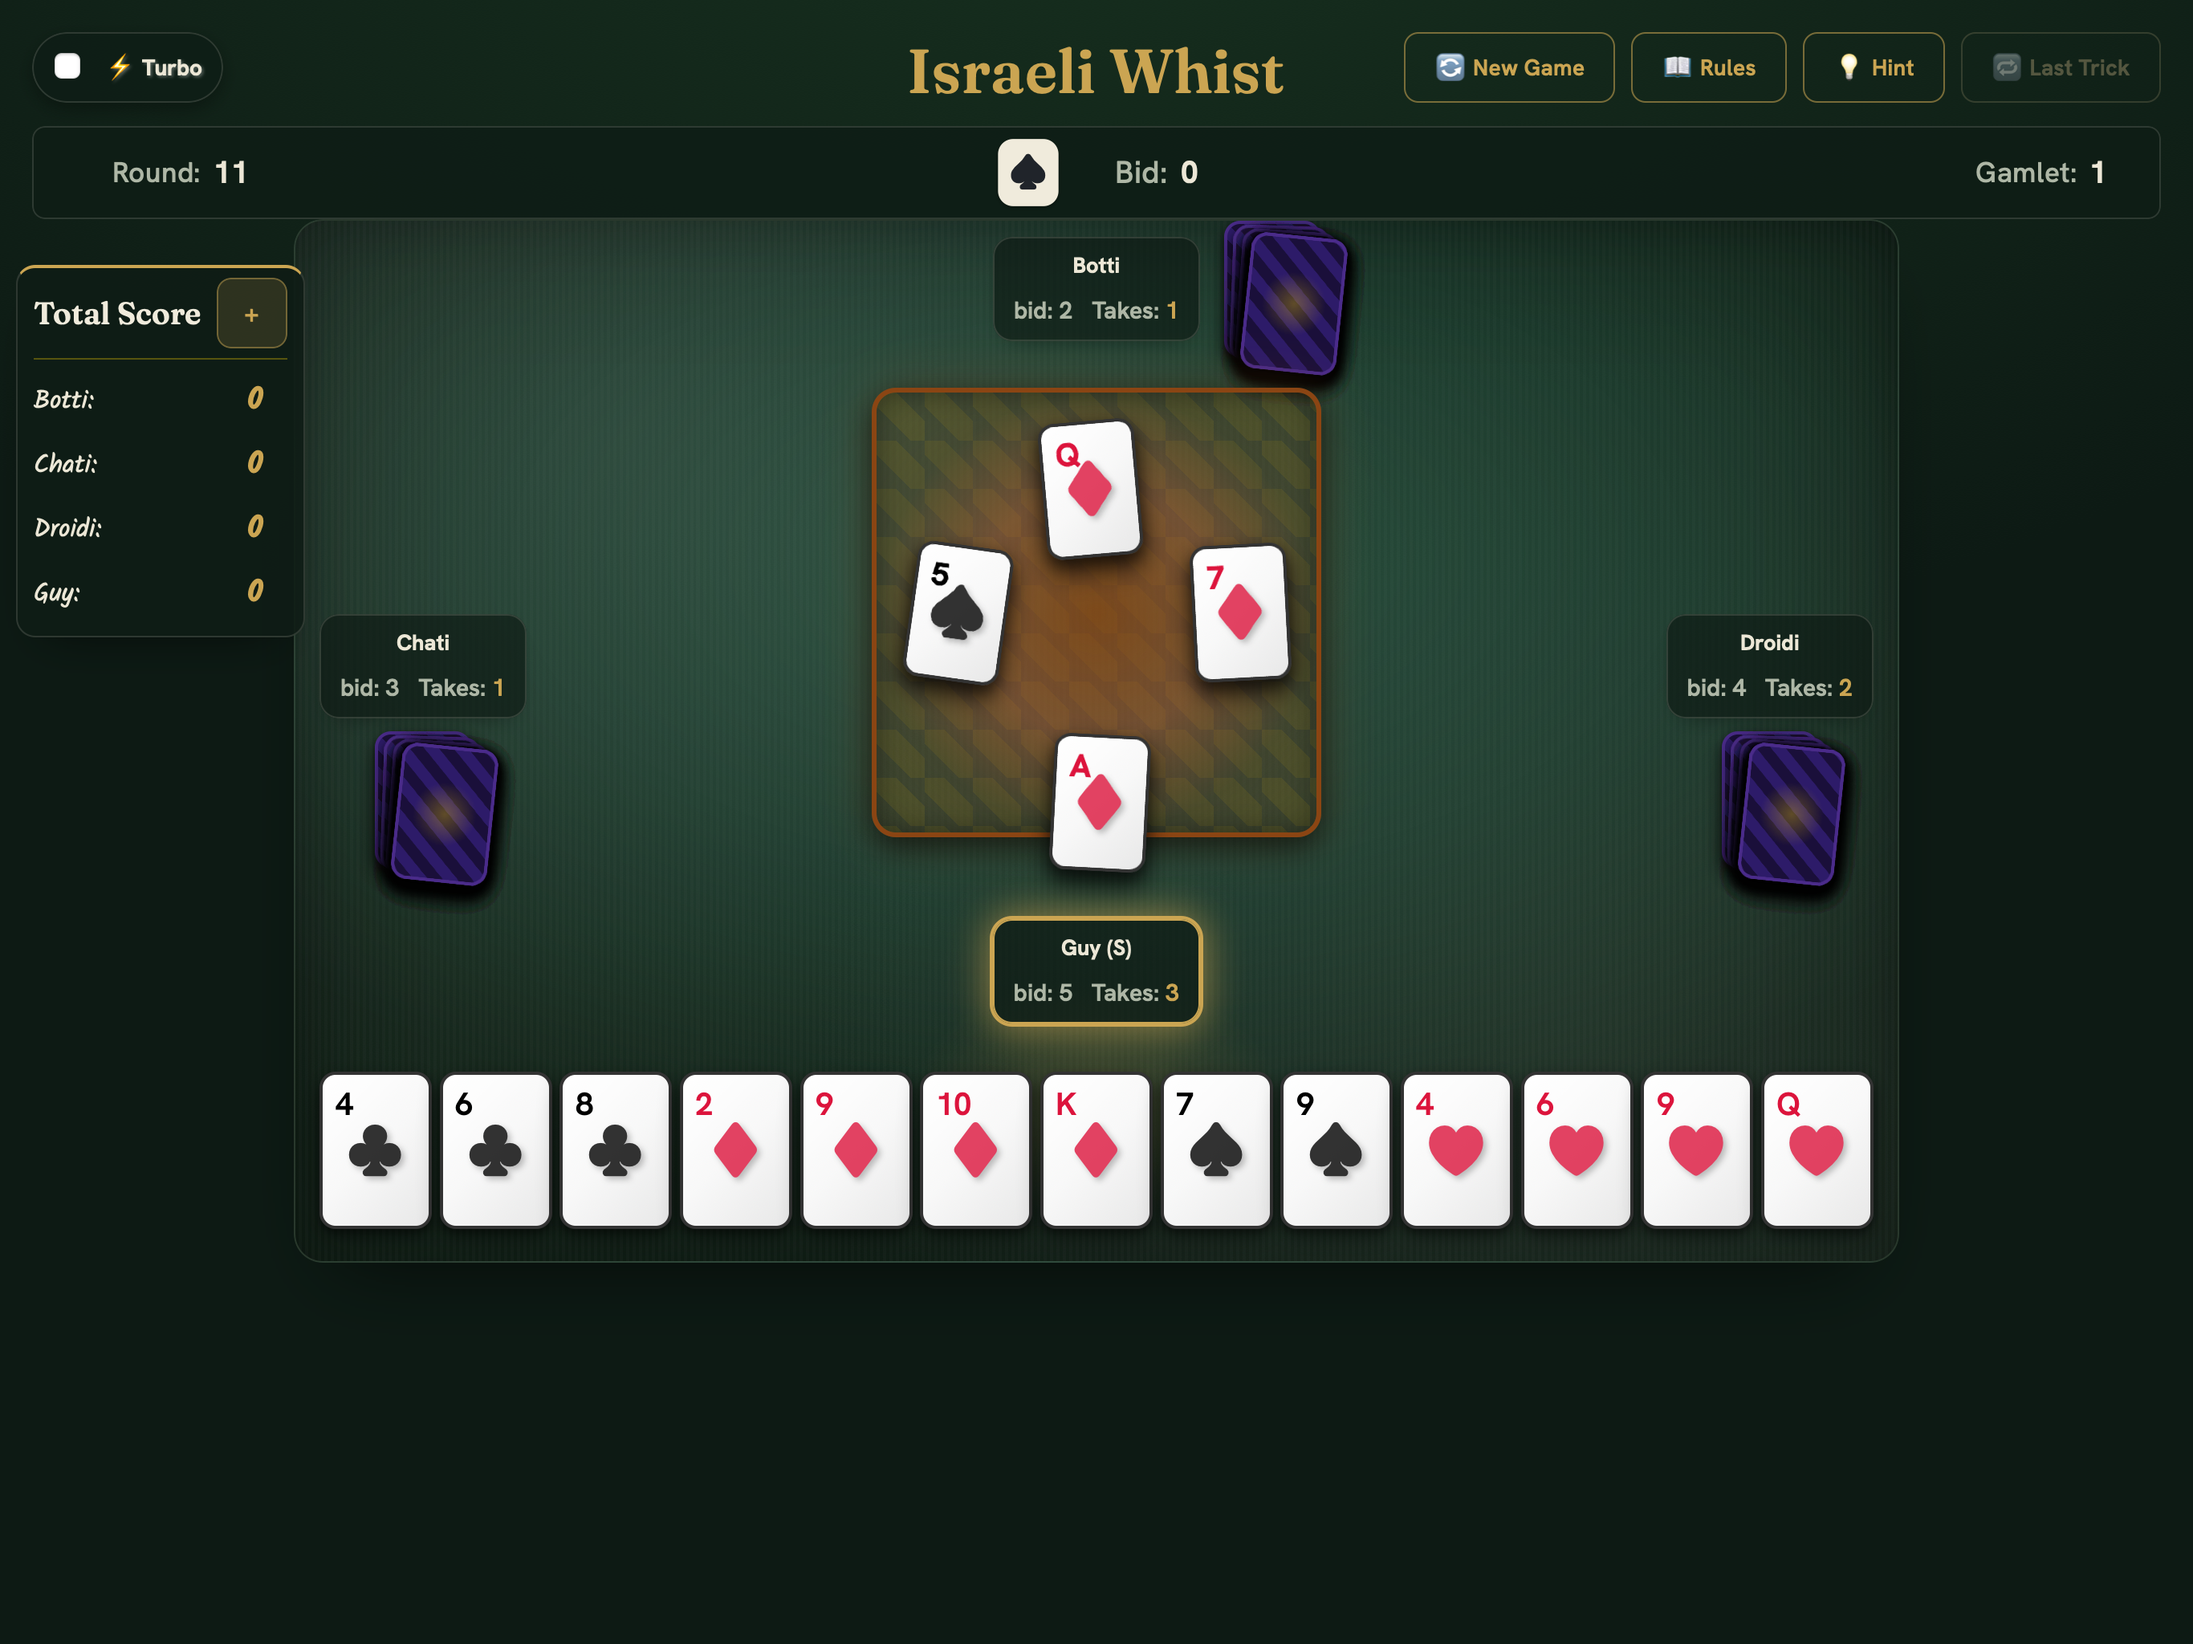
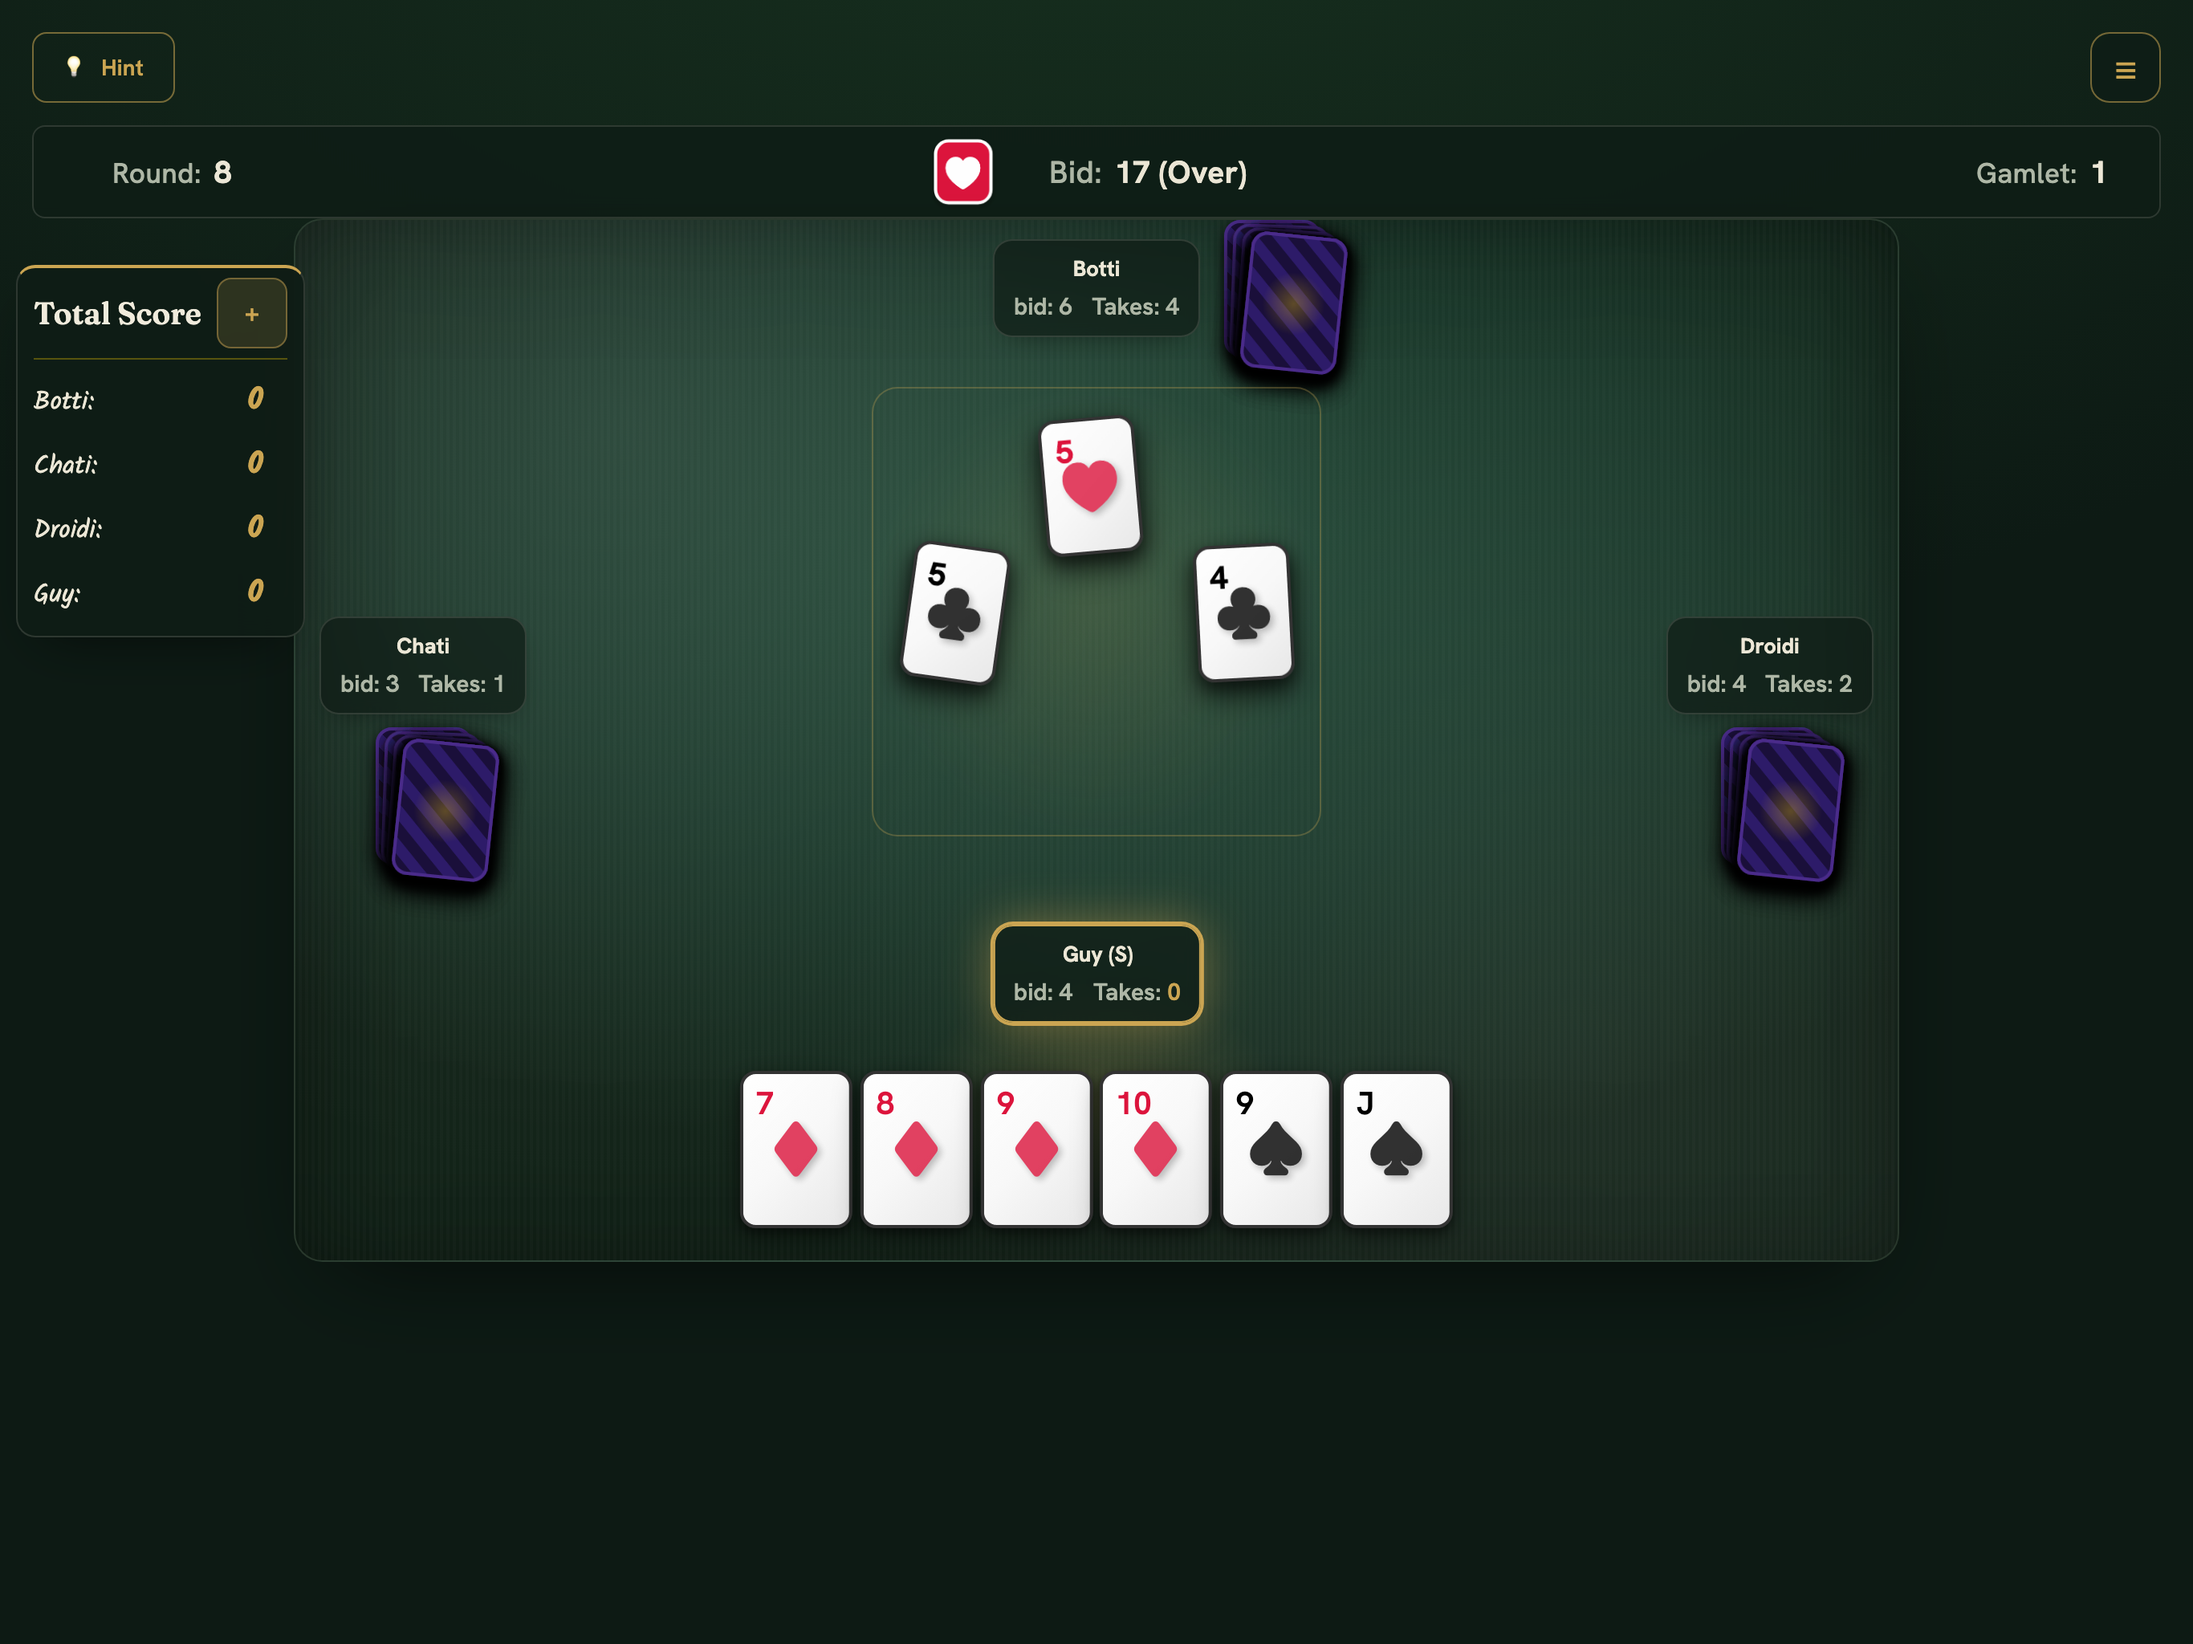
chore(app-store): regenerate screenshots; fix the felt bugs they exposed
The three sets showed the old two-row top chrome and the docked bid panel.
Regenerated all of them — and added scripts/make-store-screenshots.mjs so the
next round is one command instead of hand-driving a browser. It runs the real
game headless at each device's CSS size and pixel ratio (6.9" 430x932@3, 6.5"
428x926@3, iPad 1366x1024@2), one shot per phase: trump bidding, takes, play.
Nothing composited or annotated.

Capturing with isMobile/hasTouch — which a real device has, and the old
hand-driven captures evidently didn't — put the layout through the
`(hover: none)` branches for the first time, and two genuine bugs fell out:

- The trick square was still the pre-theme brown "wooden table" (saddle-brown
  radial, gold hatching, 3px #8B4513 border). The Card Room reskin only
  replaced it inside the portrait-phone block, so tablets and desktop had an
  orange slab sitting in the middle of the felt. Restyled once, globally.

- iPad capped .total-score-box at 200px to keep it clear of the west nameplate,
  which clipped the fourth seat's row off the bottom. 260px fits all four and
  still ends ~100px above the plate.

02 is now the takes round rather than a second play shot: south passes in
phase 1 so a bot wins the trump and bids takes first, which means the panel
shows real predictions instead of four dashes — and the forbidden
total-of-13 value greyed out, which is the rule worth showing.

Also strips the transient toasts and floating "Pass / 3 ♥" bid badges before
[…]

diff --git a/theme-cardroom.css b/theme-cardroom.css
@@ -53,6 +53,18 @@ body {
                 0 24px 60px -26px rgba(0,0,0,.7) !important;
 }
 
+/* The trick square is a brown "wooden table" left over from the pre-theme
+   design (styles.css §.trick-area: saddle-brown radial + gold hatching + a 3px
+   #8B4513 border). The reskin only replaced it inside the portrait-phone block,
+   so on tablets and desktop an orange slab still sat in the middle of the felt.
+   Same treatment everywhere: a faint brass pool where the trick lands. */
+.trick-area {
+    background: radial-gradient(ellipse at center, rgba(203,165,82,.12), rgba(203,165,82,0) 72%) !important;
+    border: 1px solid rgba(203,165,82,.30) !important;
+    border-radius: 16px !important;
+    box-shadow: none !important;
+}
+
 /* ── 3. Status bar: legible labels, trump pip, trick progress ──────────── */
 .game-status {
     background: rgba(14,28,21,.82) !important;
@@ -365,6 +377,14 @@ body {
    z-index:2000, which drew them straight across the centred bid tray on phones.
    Keep them above the felt but below the tray (1400) and the modals (2000). */
 .bid-animation { z-index: 1200 !important; }
+
+/* iPad-class touch screens: styles.css caps the score box at 200px to keep it
+   clear of the west nameplate, but that clipped the fourth seat's row off the
+   bottom. Four rows plus the header need ~250px, and 260 still ends well above
+   the plate (box top 165 + 260 = 425; the plate sits near 525). */
+@media (min-width: 700px) and (max-width: 1400px) and (hover: none) {
+    .total-score-box { max-height: 260px !important; }
+}
 
 /* ── 11. Mobile: portrait is playable, not blocked ─────────────────────── */
 /* Retire the hard rotate wall. The board scales to fit and the hand overlaps. */

diff --git a/index.html b/index.html
@@ -45,7 +45,7 @@ Israeli Whist DOM map:
     <!-- Main stylesheet with fallbacks -->
     <link rel="stylesheet" href="styles.css?v=20260601b">
     <!-- Card Room theme: layered reskin loaded AFTER styles.css so it wins the cascade. -->
-    <link rel="stylesheet" href="theme-cardroom.css?v=20260813b">
+    <link rel="stylesheet" href="theme-cardroom.css?v=20260813c">
 
     <!-- Inline SVG favicon: the app mark reduced to what survives 16px — the
          cream ring on felt with a single ivory spade. Silences the

diff --git a/sw.js b/sw.js
@@ -8,7 +8,7 @@
 //     load and served offline afterwards.
 //
 // Bump CACHE on release to evict the old shell.
-const CACHE = 'whist-v2-20260813b';
+const CACHE = 'whist-v2-20260813c';
 
 // Same-origin core precached on install. Relative paths keep this working under
 // the GitHub Pages subpath (/israeli-whist/).

diff --git a/docs/app-store/listing.md b/docs/app-store/listing.md
@@ -71,10 +71,23 @@ Answer in App Store Connect → App Privacy:
 - No tracking. Matches the bundled `PrivacyInfo.xcprivacy`.
 
 ## Screenshots
-Provided at `docs/app-store/screenshots/` — **1290×2796** (6.9″ iPhone; also accepted for 6.7″).
-1. `01-bidding.png` — the bidding round ("Your turn — pick trump & tricks").
-2. `02-play.png` — a trick in play on the felt table.
-Add 1–3 more if you like (max 10). A 6.5″ set (1284×2778) is optional but nice to have.
+Provided at `docs/app-store/screenshots/`, three sets, one shot per phase of the game:
+
+| Folder | Size | Slot |
+|---|---|---|
+| `6.9/` | 1290×2796 | 6.9″ iPhone (also accepted for 6.7″) |
+| `6.5/` | 1284×2778 | 6.5″ iPhone |
+| `ipad/` | 2732×2048 | 12.9″ iPad, landscape |
+
+1. `01-bidding.png` — trump bidding ("Your turn — pick trump & tricks").
+2. `02-takes.png` — the takes round, with the other seats' predictions in and the
+   value that would total 13 greyed out.
+3. `03-play.png` — a trick in play on the felt.
+
+Regenerate them all with `node scripts/make-store-screenshots.mjs` (or pass
+profile names, e.g. `… 6.9 ipad`). It drives the real game headless at each
+device's CSS size and pixel ratio — nothing is composited or annotated. Max 10
+per size if you want to add more.
 
 ---
 
